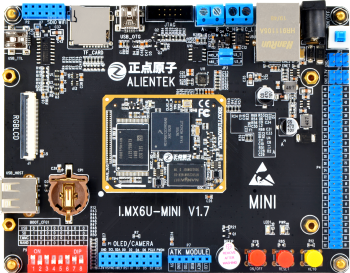
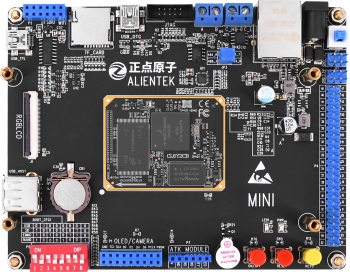
8/10 12122

diff --git a/zdyz_docs/boards/arm-linux/zdyz-i.mx6ullmini.rst b/zdyz_docs/boards/arm-linux/zdyz-i.mx6ullmini.rst
@@ -25,7 +25,7 @@ Mini Linux开发板
 ^^^^^^^^^^^
 
 - ``Coding(推荐)`` 下载链接：https://atk-imx6ull.coding.net/public
-- 下载方法：在Windows安装git或ubuntu安装git，进入上面的仓库，进入一个开源项目，点击右上角的克隆，复制链接，使用git clone指令下载即可！
+- 下载方法：在Windows安装git或ubuntu安装git，进入上面的仓库，进入一个开源项目，点击右上角的克隆，复制链接，使用git clone指令下载即可。
 - 下载示例：
 - ``git clone  https://e.coding.net/atk-imx6ull/imx6ull/09_Tutorial_Doc.git``
 
@@ -81,7 +81,14 @@ I.MX6U 虚拟机链接
 .. _pic_major_imx6ull_boardmi:
 
 .. figure:: media/imx6ull/imx6ull_boardmi.png
+   
+ Mini Linux开发板开发板正面图
 
+.. _pic_major_imx6ull_boardmi:
+
+.. figure:: media/imx6ull/imx_6ull_coreb.png
+   
+ Mini Linux开发板开发板背面图
 
 
 购买方式

diff --git a/zdyz_docs/boards/arm-linux/zdyz-i.mx6ull.rst b/zdyz_docs/boards/arm-linux/zdyz-i.mx6ull.rst
@@ -25,9 +25,10 @@ i.MX6ULL Linux阿尔法开发板
 ^^^^^^^^^^^
 
 - ``Coding(推荐)`` 下载链接：https://atk-imx6ull.coding.net/public
-- 下载方法：在Windows安装git或ubuntu安装git，进入上面的仓库，进入一个开源项目，点击右上角的克隆，复制链接，使用下面的链接下载即可！
+- 下载方法：在Windows安装git或ubuntu安装git，进入上面的仓库，进入一个开源项目，点击右上角的克隆，复制链接，使用git clone指令下载即可。
 - 下载示例：
 - ``git clone  https://e.coding.net/atk-imx6ull/imx6ull/09_Tutorial_Doc.git``
+
 
 I.MX6U 虚拟机链接
 ^^^^^^^^^^^
